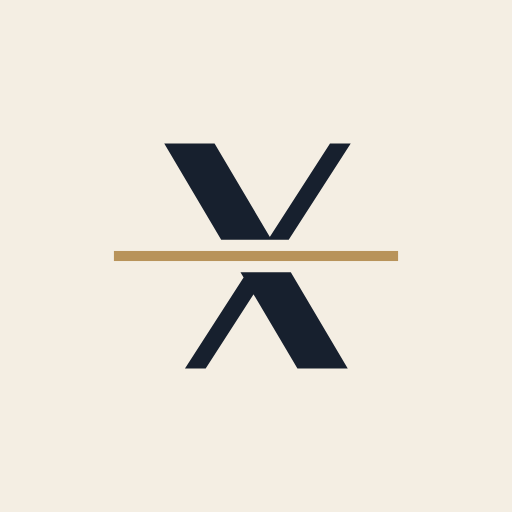
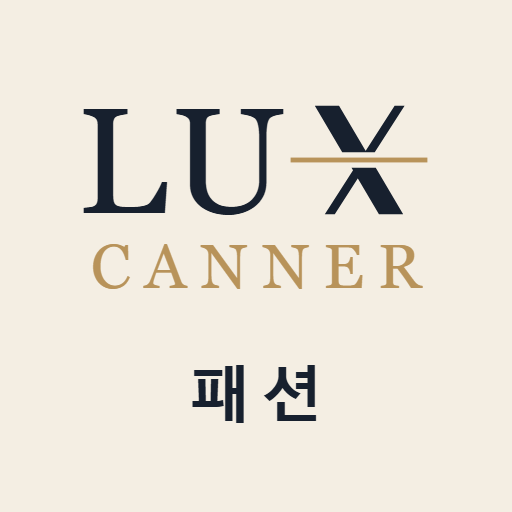
앱: 새 아이콘(LUX·CANNER·주얼리/패션), 설정 칸이 다시 그려도 펼친 채로, 사진마다 확대값(fbm)·묶음 키(v)·칩 이름 준비, 글자 로고 키움

Changed region(s): [[0.1562, 0.1875, 0.8438, 0.8438]]

diff --git a/jewelry/sw.js b/jewelry/sw.js
@@ -6,8 +6,8 @@
  * - 브랜드 상세·국기는 처음 볼 때 받아 저장한다(미리 받지 않음).
  */
 "use strict";
-const KIND = "jewelry", VER = "a99831e910f1";
[1 lines of base64/hex data omitted]
+const KIND = "jewelry", VER = "efd32f2dab6f";
[1 lines of base64/hex data omitted]
 const CACHE = "lux-" + KIND + "-" + VER;
 const BASE = new URL("./", self.location).href;
 

diff --git a/fashion/sw.js b/fashion/sw.js
@@ -6,8 +6,8 @@
  * - 브랜드 상세·국기는 처음 볼 때 받아 저장한다(미리 받지 않음).
  */
 "use strict";
-const KIND = "fashion", VER = "ff46a548ef14";
[1 lines of base64/hex data omitted]
+const KIND = "fashion", VER = "b01dc760171a";
[1 lines of base64/hex data omitted]
 const CACHE = "lux-" + KIND + "-" + VER;
 const BASE = new URL("./", self.location).href;
 

diff --git a/fashion/common/app.js b/fashion/common/app.js
@@ -1393,9 +1393,15 @@
     const isBag = kind === "bag";
     // ② 변형: 주얼리 = 같은 모델의 다른 소재·폭(시안 규칙: 이름 끝 괄호를 뺀 이름이 같음), 가방 = 같은 모델의 다른 색
     const vars = isBag ? D.bag.filter(q => q.md === p.md) : D.jewelry.filter(q => q.v === p.v);
+    // 칩 이름: 이름 끝 괄호 → 없으면 같은 묶음 이름들의 다른 부분 → 그래도 같으면 제품번호 (10-31: 제품번호로 묶는 브랜드)
+    const ws = vars.map(q => q.n.split(" "));
+    let k = 0;
+    while (ws.length > 1 && ws.every(w => k < w.length - 1 && w[k] === ws[0][k])) k++;
+    const pre = ws[0].slice(0, k).join(" ");
+    const chipName = q => (q.n.match(/\(([^)]*)\)\s*$/) || [])[1] || q.n.slice(pre.length).replace(/^[\s,·\-–]+/, "").trim() || q.s;
     const varHtml = vars.length > 1 ? `<div class="vars"><span class="vl">${isBag ? "색상" : "소재·크기"}</span>${vars.map(q => isBag
       ? `<a class="sw big ${q === p ? "on" : ""}" href="${link(q)}" title="${esc(colKo(q))}" aria-label="${esc(colKo(q))}" style="background:${COLG[q.colg] || "#999"}"></a>`
-      : (() => { const lab = (q.n.match(/\(([^)]*)\)\s*$/) || [, q.s])[1];  // 긴 소재 설명은 칩에서 줄이고 전체는 title 로
+      : (() => { const lab = chipName(q);  // 긴 소재 설명은 칩에서 줄이고 전체는 title 로
           return `<a class="tchip sm vchip ${q === p ? "on" : ""}" href="${link(q)}" title="${esc(lab)}">${esc(lab.length > 28 ? lab.slice(0, 27) + "…" : lab)}</a>`; })()).join("")}
       ${isBag ? `<span class="vname">${esc(colKo(p))}</span>` : ""}</div>` : "";
     // ③ 나라별: 내 여행지 맨 위 고정 → 나머지 싼 순 → 한국(기준) → 비교 불가 회색
@@ -1454,11 +1460,12 @@
       fixbar.innerHTML = `<div class="fxinfo"><span class="fxwhere">가장 싼 곳 ${cc(R.best.cc)} ${esc(C[R.best.cc].n)}</span><span><b>${won(R.best.net)}</b>${R.save > 0 && R.kr ? ` <span class="save">${esc(krLab(R))}보다 ${won(R.kr.net - R.best.net)} 아껴요</span>` : ""}</span></div><button type="button" class="btn" data-pick="${esc(p.b + "|" + p.s)}">${on ? "♥ 담음" : "♡ 담기"}</button>`;
       fixbar.hidden = false;
     }
-    // 사진 여러 장: 확대값(fb)은 첫 장(대표 사진)을 잰 값 — 2번째 장부터는 각도·위치가 달라 사진 전체를 그대로 (10-30)
+    // 사진 여러 장: 첫 장은 fb, 2번째 장부터는 그 사진을 잰 fbs[i] — 잰 값이 없으면 사진 전체를 그대로 (10-30, 10-31)
+    const fbAt = i => i ? (p.fbs && p.fbs[i]) || null : p.fb;
     return `<nav class="crumb"><a href="#/">홈</a> › <a href="#/brand/${encodeURIComponent(p.b)}">${esc(bk(p.b))}</a>${p.c ? ` › <a href="#/brand/${encodeURIComponent(p.b)}?c=${encodeURIComponent(p.c)}">${esc(colName(p.c))}</a>` : ""}</nav>
       <section class="pd" data-brand="${esc(bk(p.b))}">
-        <div class="pdimg">${photo(p.imgs && p.imgs[pImg] ? { ...p, img: p.imgs[pImg], fb: pImg ? null : p.fb } : p, "big")}
-          ${p.imgs && p.imgs.length > 1 ? `<div class="pthumbs">${p.imgs.map((u, i) => `<button type="button" class="${i === pImg ? "on" : ""}" data-pimg="${i}" aria-label="사진 ${i + 1}">${photo({ ...p, img: u, fb: i ? null : p.fb })}</button>`).join("")}</div>` : ""}
+        <div class="pdimg">${photo(p.imgs && p.imgs[pImg] ? { ...p, img: p.imgs[pImg], fb: fbAt(pImg) } : p, "big")}
+          ${p.imgs && p.imgs.length > 1 ? `<div class="pthumbs">${p.imgs.map((u, i) => `<button type="button" class="${i === pImg ? "on" : ""}" data-pimg="${i}" aria-label="사진 ${i + 1}">${photo({ ...p, img: u, fb: fbAt(i) })}</button>`).join("")}</div>` : ""}
           ${brandState[p.b] === "loading" ? `<p class="note">나라별 공홈 주소를 읽는 중…</p>` : brandState[p.b] === "fail" ? `<p class="note">공홈 주소 파일을 읽지 못했어요 (data/brands)</p>` : ""}</div>
         <div class="pdtx">
           <div class="br">${esc(p.b.toUpperCase())}${p.c ? " · " + esc(colName(p.c).toUpperCase()) : ""}</div>
@@ -1854,7 +1861,11 @@
     // 필터 판이 열린 채 조건을 바꾸면 판이 다시 그려진다 — 보던 위치를 지켜서 아래쪽 필터를 이어서 고를 수 있게
     AT = null;
     const fpOld = app.querySelector(".fl.open .fpanel"), fpTop = fpOld ? fpOld.scrollTop : 0;
-    if (lastRoute.split("?")[0] !== path || !keepTyping(html)) app.innerHTML = html;  // 다른 화면으로 가면 입력 칸도 새로
+    // 같은 화면을 다시 그릴 때 펼쳐 둔 접기 칸(설정 묶음 등)은 그대로 — 설정을 바꾸면 묶음이 접혀서 바뀐 걸 확인하기 어려웠다 (10-31 사용자)
+    const same = lastRoute.split("?")[0] === path, keyOf = d => d.id || d.className + "|" + (d.querySelector("summary")?.textContent || "").trim();  // 같은 제목(바깥 '나라별 옵션'·안쪽 '나라별 옵션')도 구분
+    const opened = same ? new Map([...app.querySelectorAll("details")].map(d => [keyOf(d), d.open])) : null;
+    if (!same || !keepTyping(html)) app.innerHTML = html;  // 다른 화면으로 가면 입력 칸도 새로
+    if (opened) app.querySelectorAll("details").forEach(d => { const k = keyOf(d); if (opened.has(k)) d.open = opened.get(k); });
     const fpNew = app.querySelector(".fl.open .fpanel");
     const qp = app.querySelector(".qpop"), qc = app.querySelector(".qchip.open");  // 펼친 판의 꼬리를 누른 단추 가운데로
     if (qp && qc) { const cr = qc.getBoundingClientRect(), pr = qp.getBoundingClientRect();

diff --git a/jewelry/common/app.js b/jewelry/common/app.js
@@ -1393,9 +1393,15 @@
     const isBag = kind === "bag";
     // ② 변형: 주얼리 = 같은 모델의 다른 소재·폭(시안 규칙: 이름 끝 괄호를 뺀 이름이 같음), 가방 = 같은 모델의 다른 색
     const vars = isBag ? D.bag.filter(q => q.md === p.md) : D.jewelry.filter(q => q.v === p.v);
+    // 칩 이름: 이름 끝 괄호 → 없으면 같은 묶음 이름들의 다른 부분 → 그래도 같으면 제품번호 (10-31: 제품번호로 묶는 브랜드)
+    const ws = vars.map(q => q.n.split(" "));
+    let k = 0;
+    while (ws.length > 1 && ws.every(w => k < w.length - 1 && w[k] === ws[0][k])) k++;
+    const pre = ws[0].slice(0, k).join(" ");
+    const chipName = q => (q.n.match(/\(([^)]*)\)\s*$/) || [])[1] || q.n.slice(pre.length).replace(/^[\s,·\-–]+/, "").trim() || q.s;
     const varHtml = vars.length > 1 ? `<div class="vars"><span class="vl">${isBag ? "색상" : "소재·크기"}</span>${vars.map(q => isBag
       ? `<a class="sw big ${q === p ? "on" : ""}" href="${link(q)}" title="${esc(colKo(q))}" aria-label="${esc(colKo(q))}" style="background:${COLG[q.colg] || "#999"}"></a>`
-      : (() => { const lab = (q.n.match(/\(([^)]*)\)\s*$/) || [, q.s])[1];  // 긴 소재 설명은 칩에서 줄이고 전체는 title 로
+      : (() => { const lab = chipName(q);  // 긴 소재 설명은 칩에서 줄이고 전체는 title 로
           return `<a class="tchip sm vchip ${q === p ? "on" : ""}" href="${link(q)}" title="${esc(lab)}">${esc(lab.length > 28 ? lab.slice(0, 27) + "…" : lab)}</a>`; })()).join("")}
       ${isBag ? `<span class="vname">${esc(colKo(p))}</span>` : ""}</div>` : "";
     // ③ 나라별: 내 여행지 맨 위 고정 → 나머지 싼 순 → 한국(기준) → 비교 불가 회색
@@ -1454,11 +1460,12 @@
       fixbar.innerHTML = `<div class="fxinfo"><span class="fxwhere">가장 싼 곳 ${cc(R.best.cc)} ${esc(C[R.best.cc].n)}</span><span><b>${won(R.best.net)}</b>${R.save > 0 && R.kr ? ` <span class="save">${esc(krLab(R))}보다 ${won(R.kr.net - R.best.net)} 아껴요</span>` : ""}</span></div><button type="button" class="btn" data-pick="${esc(p.b + "|" + p.s)}">${on ? "♥ 담음" : "♡ 담기"}</button>`;
       fixbar.hidden = false;
     }
-    // 사진 여러 장: 확대값(fb)은 첫 장(대표 사진)을 잰 값 — 2번째 장부터는 각도·위치가 달라 사진 전체를 그대로 (10-30)
+    // 사진 여러 장: 첫 장은 fb, 2번째 장부터는 그 사진을 잰 fbs[i] — 잰 값이 없으면 사진 전체를 그대로 (10-30, 10-31)
+    const fbAt = i => i ? (p.fbs && p.fbs[i]) || null : p.fb;
     return `<nav class="crumb"><a href="#/">홈</a> › <a href="#/brand/${encodeURIComponent(p.b)}">${esc(bk(p.b))}</a>${p.c ? ` › <a href="#/brand/${encodeURIComponent(p.b)}?c=${encodeURIComponent(p.c)}">${esc(colName(p.c))}</a>` : ""}</nav>
       <section class="pd" data-brand="${esc(bk(p.b))}">
-        <div class="pdimg">${photo(p.imgs && p.imgs[pImg] ? { ...p, img: p.imgs[pImg], fb: pImg ? null : p.fb } : p, "big")}
-          ${p.imgs && p.imgs.length > 1 ? `<div class="pthumbs">${p.imgs.map((u, i) => `<button type="button" class="${i === pImg ? "on" : ""}" data-pimg="${i}" aria-label="사진 ${i + 1}">${photo({ ...p, img: u, fb: i ? null : p.fb })}</button>`).join("")}</div>` : ""}
+        <div class="pdimg">${photo(p.imgs && p.imgs[pImg] ? { ...p, img: p.imgs[pImg], fb: fbAt(pImg) } : p, "big")}
+          ${p.imgs && p.imgs.length > 1 ? `<div class="pthumbs">${p.imgs.map((u, i) => `<button type="button" class="${i === pImg ? "on" : ""}" data-pimg="${i}" aria-label="사진 ${i + 1}">${photo({ ...p, img: u, fb: fbAt(i) })}</button>`).join("")}</div>` : ""}
           ${brandState[p.b] === "loading" ? `<p class="note">나라별 공홈 주소를 읽는 중…</p>` : brandState[p.b] === "fail" ? `<p class="note">공홈 주소 파일을 읽지 못했어요 (data/brands)</p>` : ""}</div>
         <div class="pdtx">
           <div class="br">${esc(p.b.toUpperCase())}${p.c ? " · " + esc(colName(p.c).toUpperCase()) : ""}</div>
@@ -1854,7 +1861,11 @@
     // 필터 판이 열린 채 조건을 바꾸면 판이 다시 그려진다 — 보던 위치를 지켜서 아래쪽 필터를 이어서 고를 수 있게
     AT = null;
     const fpOld = app.querySelector(".fl.open .fpanel"), fpTop = fpOld ? fpOld.scrollTop : 0;
-    if (lastRoute.split("?")[0] !== path || !keepTyping(html)) app.innerHTML = html;  // 다른 화면으로 가면 입력 칸도 새로
+    // 같은 화면을 다시 그릴 때 펼쳐 둔 접기 칸(설정 묶음 등)은 그대로 — 설정을 바꾸면 묶음이 접혀서 바뀐 걸 확인하기 어려웠다 (10-31 사용자)
+    const same = lastRoute.split("?")[0] === path, keyOf = d => d.id || d.className + "|" + (d.querySelector("summary")?.textContent || "").trim();  // 같은 제목(바깥 '나라별 옵션'·안쪽 '나라별 옵션')도 구분
+    const opened = same ? new Map([...app.querySelectorAll("details")].map(d => [keyOf(d), d.open])) : null;
+    if (!same || !keepTyping(html)) app.innerHTML = html;  // 다른 화면으로 가면 입력 칸도 새로
+    if (opened) app.querySelectorAll("details").forEach(d => { const k = keyOf(d); if (opened.has(k)) d.open = opened.get(k); });
     const fpNew = app.querySelector(".fl.open .fpanel");
     const qp = app.querySelector(".qpop"), qc = app.querySelector(".qchip.open");  // 펼친 판의 꼬리를 누른 단추 가운데로
     if (qp && qc) { const cr = qc.getBoundingClientRect(), pr = qp.getBoundingClientRect();

diff --git a/fashion/common/data.js b/fashion/common/data.js
@@ -22,7 +22,7 @@ if (typeof window !== "undefined") window.LUX = window.LUX || {};
       const n = r[I.n], p = { b, s: r[I.s], n, ne: r[I.ne] || n, c: d.c[r[I.c]], t: d.t[r[I.t]], m: d.m[r[I.m]], g: d.g[r[I.g]],
         mt: d.mt[r[I.mt]], sb: d.sb[r[I.sb]], img: unmid(r[I.img], im[0], im[1]), v: vkey(b, n), p: pr };
       const ex = r[I.extra];
-      if (ex) { if (ex.x) p.x = ex.x; if (ex.rk) p.rk = ex.rk; if (ex.pc) p.pc = ex.pc; if (ex.ck) p.ck = ex.ck; if (ex.md) p.md = ex.md; if (ex.nc) p.nc = ex.nc; if (ex.cg) p.cg = ex.cg; if (ex.fb) p.fb = ex.fb; }  // md 모델 번호 · nc 합친 색상 수 · cg 관세 품목  // ck: 가격 확인 필요 (엑셀 가격DB와 같은 판정)  // pc: 원래 통화로 적힌 칸 {나라: [값, 통화]}
+      if (ex) { if (ex.x) p.x = ex.x; if (ex.rk) p.rk = ex.rk; if (ex.pc) p.pc = ex.pc; if (ex.ck) p.ck = ex.ck; if (ex.md) p.md = ex.md; if (ex.nc) p.nc = ex.nc; if (ex.cg) p.cg = ex.cg; if (ex.fb) p.fb = ex.fb; if (ex.v) p.v = b + "|" + ex.v; }  // v: 이름 규칙으로 안 묶이는 브랜드(미키모토·포멜라토·루이비통)의 변형 묶음 키 (10-31)  // md 모델 번호 · nc 합친 색상 수 · cg 관세 품목  // ck: 가격 확인 필요 (엑셀 가격DB와 같은 판정)  // pc: 원래 통화로 적힌 칸 {나라: [값, 통화]}
       return p;
     });
   }
@@ -41,8 +41,11 @@ if (typeof window !== "undefined") window.LUX = window.LUX || {};
         if (!p.p[cc]) p.p[cc] = [0, 0, "", null];  // 가격은 없고 공홈 페이지만 있는 나라 (제품 화면에 '공홈 ↗'만)
         p.p[cc][2] = url;
       }
-      p.imgs = imgs.map(m => unmid(m, data.img[0], data.img[1])).filter(Boolean);
-      p.x = { ...(p.x || {}), ...x };
+      // fbm: 2번째 장부터 사진마다 잰 제품 영역(첫 장 fb와 같은 형식) — 사진 목록과 같은 순서로 맞춰 둠, 제품 정보(x)에는 안 보이게 (10-31)
+      const { fbm, ...info } = x || {}, all = imgs.map(m => unmid(m, data.img[0], data.img[1]));
+      p.imgs = all.filter(Boolean);
+      p.fbs = all.map((u, i) => [u, i && fbm ? fbm[i - 1] || null : null]).filter(a => a[0]).map(a => a[1]);
+      p.x = { ...(p.x || {}), ...info };
       p.detail = true;
     }
   }

diff --git a/jewelry/common/data.js b/jewelry/common/data.js
@@ -22,7 +22,7 @@ if (typeof window !== "undefined") window.LUX = window.LUX || {};
       const n = r[I.n], p = { b, s: r[I.s], n, ne: r[I.ne] || n, c: d.c[r[I.c]], t: d.t[r[I.t]], m: d.m[r[I.m]], g: d.g[r[I.g]],
         mt: d.mt[r[I.mt]], sb: d.sb[r[I.sb]], img: unmid(r[I.img], im[0], im[1]), v: vkey(b, n), p: pr };
       const ex = r[I.extra];
-      if (ex) { if (ex.x) p.x = ex.x; if (ex.rk) p.rk = ex.rk; if (ex.pc) p.pc = ex.pc; if (ex.ck) p.ck = ex.ck; if (ex.md) p.md = ex.md; if (ex.nc) p.nc = ex.nc; if (ex.cg) p.cg = ex.cg; if (ex.fb) p.fb = ex.fb; }  // md 모델 번호 · nc 합친 색상 수 · cg 관세 품목  // ck: 가격 확인 필요 (엑셀 가격DB와 같은 판정)  // pc: 원래 통화로 적힌 칸 {나라: [값, 통화]}
+      if (ex) { if (ex.x) p.x = ex.x; if (ex.rk) p.rk = ex.rk; if (ex.pc) p.pc = ex.pc; if (ex.ck) p.ck = ex.ck; if (ex.md) p.md = ex.md; if (ex.nc) p.nc = ex.nc; if (ex.cg) p.cg = ex.cg; if (ex.fb) p.fb = ex.fb; if (ex.v) p.v = b + "|" + ex.v; }  // v: 이름 규칙으로 안 묶이는 브랜드(미키모토·포멜라토·루이비통)의 변형 묶음 키 (10-31)  // md 모델 번호 · nc 합친 색상 수 · cg 관세 품목  // ck: 가격 확인 필요 (엑셀 가격DB와 같은 판정)  // pc: 원래 통화로 적힌 칸 {나라: [값, 통화]}
       return p;
     });
   }
@@ -41,8 +41,11 @@ if (typeof window !== "undefined") window.LUX = window.LUX || {};
         if (!p.p[cc]) p.p[cc] = [0, 0, "", null];  // 가격은 없고 공홈 페이지만 있는 나라 (제품 화면에 '공홈 ↗'만)
         p.p[cc][2] = url;
       }
-      p.imgs = imgs.map(m => unmid(m, data.img[0], data.img[1])).filter(Boolean);
-      p.x = { ...(p.x || {}), ...x };
+      // fbm: 2번째 장부터 사진마다 잰 제품 영역(첫 장 fb와 같은 형식) — 사진 목록과 같은 순서로 맞춰 둠, 제품 정보(x)에는 안 보이게 (10-31)
+      const { fbm, ...info } = x || {}, all = imgs.map(m => unmid(m, data.img[0], data.img[1]));
+      p.imgs = all.filter(Boolean);
+      p.fbs = all.map((u, i) => [u, i && fbm ? fbm[i - 1] || null : null]).filter(a => a[0]).map(a => a[1]);
+      p.x = { ...(p.x || {}), ...info };
       p.detail = true;
     }
   }
